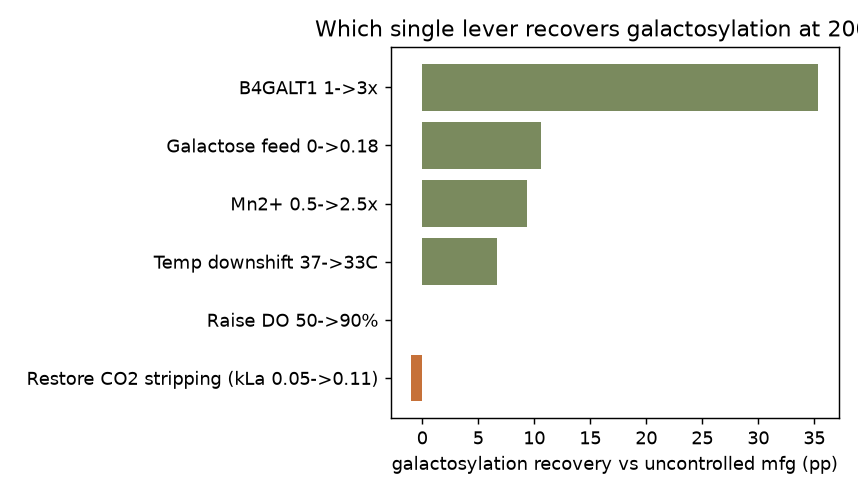
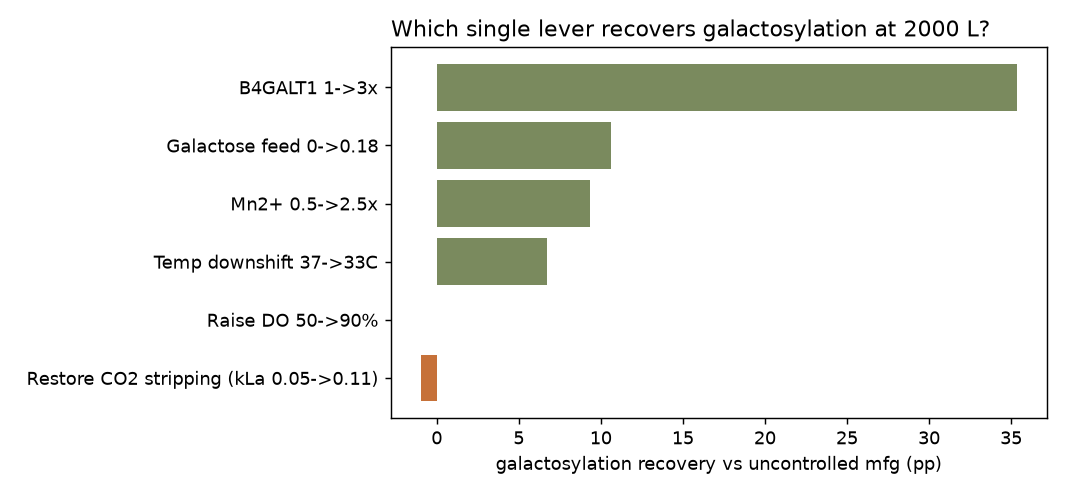
Correct scale-up robustness mechanism (near enzyme pH optimum, not residence-time trade-off); fix clipped figure title

Changed region(s): [[0.0303, 0.0304, 1.0, 0.8502], [0.4545, 0.8502, 0.9697, 0.9717], [0.3939, 0.8806, 0.4242, 0.9109]]

diff --git a/research/scale_up_finding.py b/research/scale_up_finding.py
@@ -156,11 +156,11 @@ def main():
         ax.legend(); fig.tight_layout(); fig.savefig(os.path.join(HERE, "figs", "2_do.png"), dpi=130); plt.close(fig)
 
         # fig3: lever recovery at mfg scale
-        fig, ax = plt.subplots(figsize=(6.6, 3.8))
+        fig, ax = plt.subplots(figsize=(8.2, 3.8))
         ln = [r["lever"] for r in lever_rows][::-1]; rc = [r["recovery_pp"] for r in lever_rows][::-1]
         ax.barh(ln, rc, color=[SAGE if v >= 0 else CLAY for v in rc])
         ax.set_xlabel("galactosylation recovery vs uncontrolled mfg (pp)")
-        ax.set_title("Which single lever recovers galactosylation at 2000 L?")
+        ax.set_title("Which single lever recovers galactosylation at 2000 L?", loc="left")
         fig.tight_layout(); fig.savefig(os.path.join(HERE, "figs", "3_levers.png"), dpi=130); plt.close(fig)
         out["figures"] = ["figs/1_scale.png", "figs/2_do.png", "figs/3_levers.png"]
     except Exception as e:  # pragma: no cover
@@ -174,7 +174,8 @@ def main():
     net = round(gal_mfg - gal_bench, 2)
     print(f"1) Constant DO, kLa falls bench->mfg: pCO2 rises {scale_rows[0]['pCO2max']}->{scale_rows[-1]['pCO2max']} mmHg, "
           f"yet harvest galactosylation is ROBUST: {gal_bench}% -> {gal_mfg}% (net {net:+} pp) — "
-          f"Golgi acidification is offset by slower-growth-extended residence.")
+          f"Golgi pH stays near the galactosyltransferase pH optimum (~6.4), so the pH-activity "
+          f"factor barely moves across scale.")
     print(f"2) Vary DO at bench: galactosylation moves only {out['galactosylation_range_over_DO_pp']} pp "
           f"across DO 20-90% (sialylation moves {out['sialylation_range_over_DO_pp']} pp). "
           f"=> O2 is NOT the galactosylation lever; CO2/pH is.")

diff --git a/research/FINDING.md b/research/FINDING.md
@@ -26,9 +26,15 @@ predicts. Three concrete, reproducible results:
 2. **Galactosylation is robust to the CO₂ rise itself.** Bench→manufacturing, as CO₂-stripping
    efficiency falls (kLa 0.11→0.05) and **pCO₂ rises 59.8→73.9 mmHg**, harvest galactosylation
    changes only **+0.97 pp** (51.8→52.7 %, and it moves *up*, not down). Reason the mechanism
-   gives: higher pCO₂ acidifies the Golgi (↓ activity) **but** slows growth, which **lengthens
-   Golgi residence time** (↑ conversion) — the two effects nearly cancel. A lookup table or a
-   single-factor intuition misses this coupling; a mechanistic model captures it.
+   gives: over this pCO₂ range the Golgi-lumen pH moves only from ~6.43 to ~6.38, which
+   **straddles the galactosyltransferase pH optimum (~6.4)** — so the pH-activity factor stays
+   essentially at its peak (≈0.999) and even ticks *up* slightly as pH crosses toward the
+   optimum. Golgi residence time is nearly unchanged (~31 min) across scale, so it is the
+   **flatness of the enzyme's pH–activity curve near its optimum**, not a residence-time
+   trade-off, that keeps galactosylation robust. The naive "acidification → less galactose"
+   intuition assumes operation on the steep flank of the pH curve; the mechanism shows the
+   process sits near the peak, where the same pCO₂ swing barely moves activity — a coupling a
+   lookup table or single-factor rule of thumb misses.
 3. **The real galactosylation levers are genome + media, not the gas strategy.** At 2000 L,
    the single most effective lever to move galactosylation is **B4GALT1 overexpression
    (+35.3 pp)**, followed by Mn²⁺ and galactose feed — versus **~1 pp** for the CO₂ gas